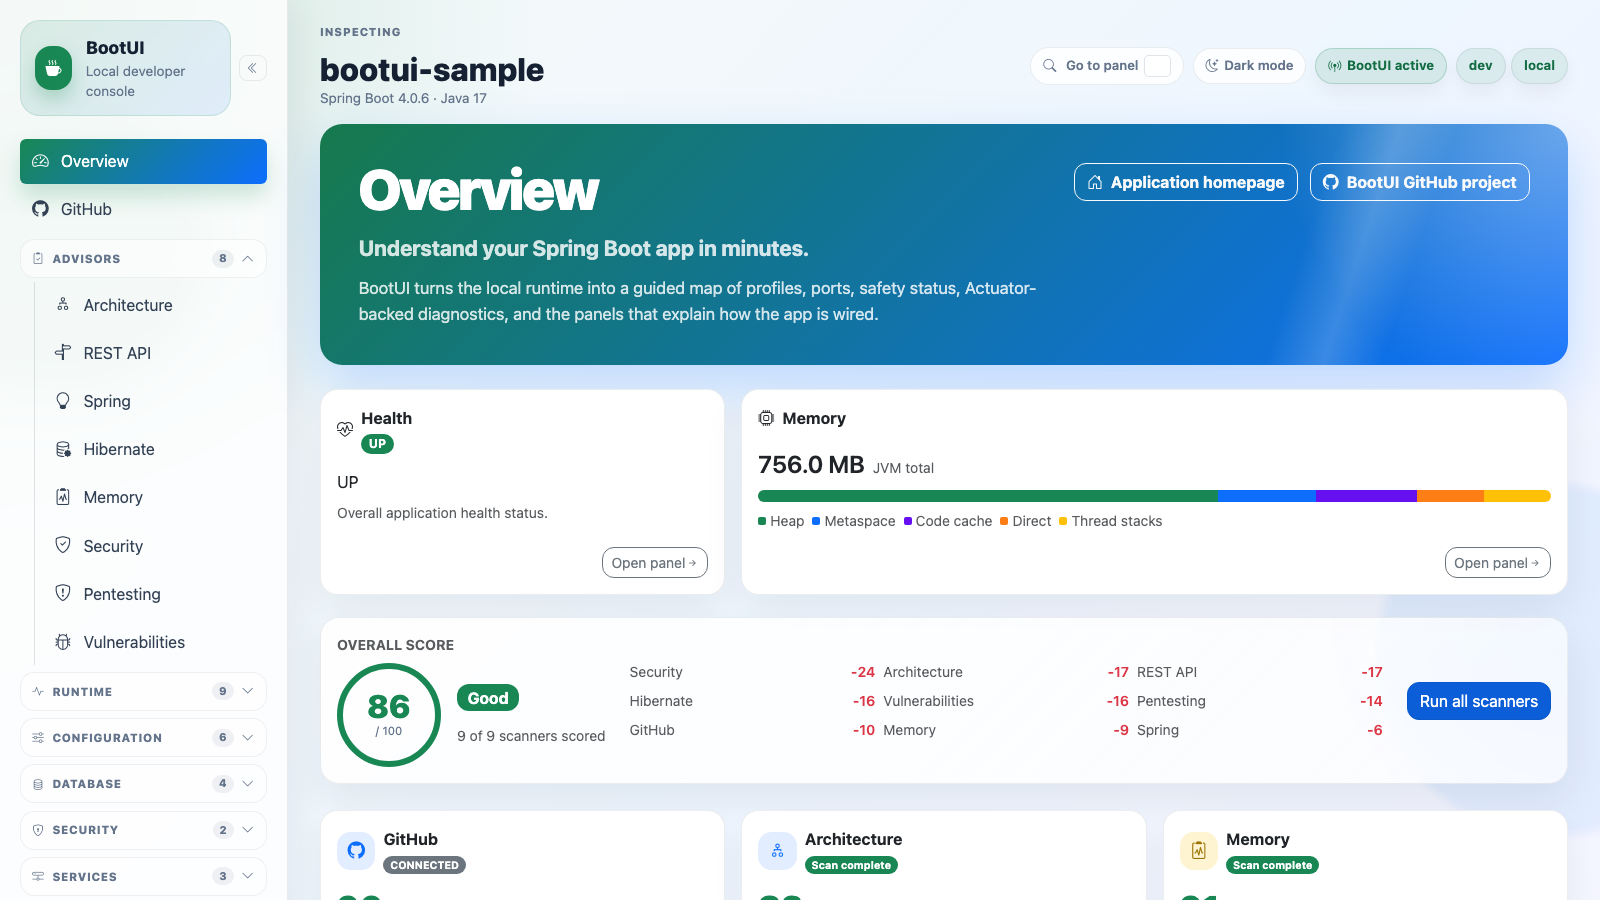
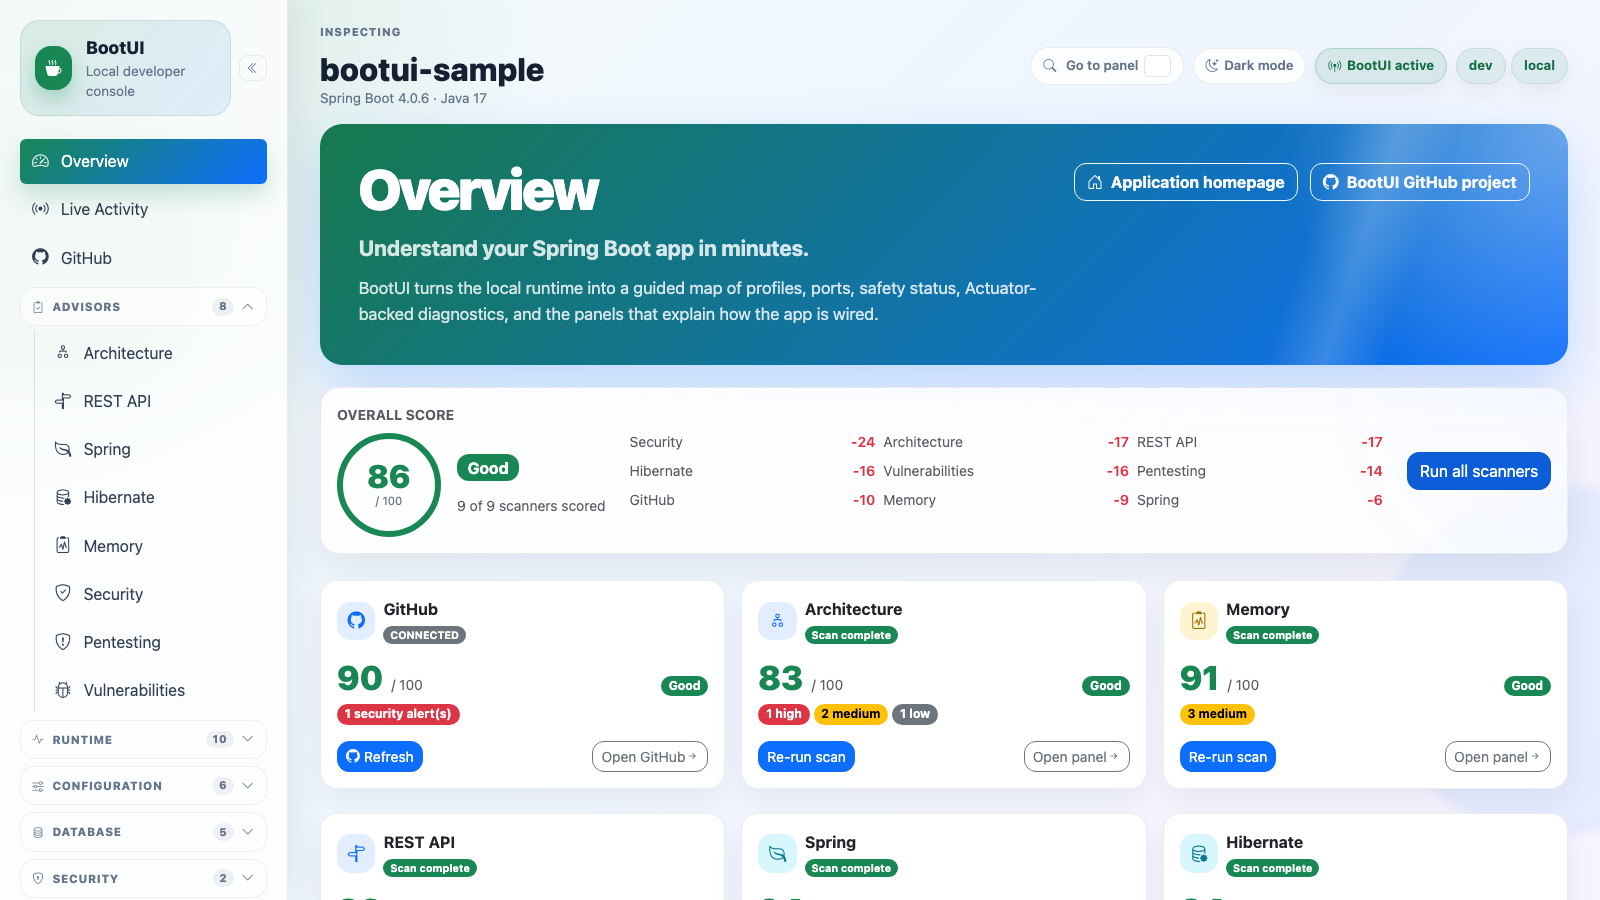
docs: add home screenshot carousel and refresh Overview/JVM Tuning shots
Recapture the Overview screenshot (it no longer shows the removed Health
and Memory live cards) and the JVM Tuning screenshot.

Replace the single Overview image on the VuePress home page with an
auto-advancing ScreenshotCarousel that cycles through Overview, Live
Activity, GitHub, JVM Tuning, Heap Dump, GraalVM, and Copilot. The
component pauses on hover/focus, honors reduced-motion, and offers prev/
next controls plus indicator dots. It is registered globally in the
VuePress client config and positioned in the home layout via CSS.

The carousel classes are namespaced (bootui-carousel-*) so they do not
collide with Bootstrap's global .carousel-indicators/.carousel-caption
rules, which otherwise absolutely positioned the dots at the bottom of
the page under the footer.

diff --git a/docs/.vuepress/components/ScreenshotCarousel.vue b/docs/.vuepress/components/ScreenshotCarousel.vue
@@ -1,0 +1,331 @@
+<script setup>
+import {computed, onBeforeUnmount, onMounted, ref} from 'vue'
+import overviewImage from '../../images/bootui-overview.png'
+import activityImage from '../../images/bootui-activity.png'
+import githubImage from '../../images/bootui-github.png'
+import jvmTuningImage from '../../images/bootui-jvm-tuning.png'
+import heapDumpImage from '../../images/bootui-heap-dump.png'
+import graalvmImage from '../../images/bootui-graalvm.png'
+import copilotImage from '../../images/bootui-copilot.png'
+
+const slides = [
+  {
+    title: 'Overview',
+    src: overviewImage,
+    caption: 'Score your app on demand and jump straight to the advisors that need attention.'
+  },
+  {
+    title: 'Live Activity',
+    src: activityImage,
+    caption: 'Watch requests, queries, and cache activity stream from the running app in real time.'
+  },
+  {
+    title: 'GitHub',
+    src: githubImage,
+    caption: 'Review pull requests, workflow runs, and API quota for the connected repository.'
+  },
+  {
+    title: 'JVM Tuning',
+    src: jvmTuningImage,
+    caption: 'Plan bare-metal JVM options and calculate Kubernetes memory sizing.'
+  },
+  {
+    title: 'Heap Dump',
+    src: heapDumpImage,
+    caption: 'Capture and analyse heap dumps to find what is retaining memory.'
+  },
+  {
+    title: 'GraalVM',
+    src: graalvmImage,
+    caption: 'Check native-image readiness before you compile an ahead-of-time binary.'
+  },
+  {
+    title: 'Copilot',
+    src: copilotImage,
+    caption: 'Explore local GitHub Copilot CLI activity, sessions, and tool usage.'
+  }
+]
+
+const AUTOPLAY_INTERVAL = 6000
+
+const current = ref(0)
+const paused = ref(false)
+let timer = null
+
+const currentSlide = computed(() => slides[current.value])
+
+function goTo(index) {
+  current.value = (index + slides.length) % slides.length
+}
+
+function next() {
+  goTo(current.value + 1)
+}
+
+function previous() {
+  goTo(current.value - 1)
+}
+
+function prefersReducedMotion() {
+  return (
+    typeof window !== 'undefined' &&
+    typeof window.matchMedia === 'function' &&
+    window.matchMedia('(prefers-reduced-motion: reduce)').matches
+  )
+}
+
+function startAutoplay() {
+  stopAutoplay()
+  if (prefersReducedMotion()) {
+    return
+  }
+  timer = window.setInterval(() => {
+    if (!paused.value) {
+      next()
+    }
+  }, AUTOPLAY_INTERVAL)
+}
+
+function stopAutoplay() {
+  if (timer !== null) {
+    window.clearInterval(timer)
+    timer = null
+  }
+}
+
+function pause() {
+  paused.value = true
+}
+
+function resume() {
+  paused.value = false
+}
+
+onMounted(startAutoplay)
+onBeforeUnmount(stopAutoplay)
+</script>
+
+<template>
+  <section
+    class="bootui-home-carousel"
+    aria-roledescription="carousel"
+    aria-label="BootUI panel screenshots"
+    @mouseenter="pause"
+    @mouseleave="resume"
+    @focusin="pause"
+    @focusout="resume"
+  >
+    <div class="bootui-carousel-frame">
+      <div class="bootui-carousel-viewport">
+        <div class="bootui-carousel-track" :style="{transform: `translateX(-${current * 100}%)`}">
+          <div
+            v-for="(slide, index) in slides"
+            :key="slide.title"
+            class="bootui-carousel-slide"
+            role="group"
+            aria-roledescription="slide"
+            :aria-label="`${index + 1} of ${slides.length}: ${slide.title}`"
+            :aria-hidden="index !== current"
+          >
+            <img
+              class="bootui-carousel-img"
+              :src="slide.src"
+              :alt="`BootUI ${slide.title} panel`"
+              loading="lazy"
+              decoding="async"
+            />
+          </div>
+        </div>
+      </div>
+
+      <button
+        type="button"
+        class="bootui-carousel-control bootui-carousel-control--prev"
+        aria-label="Previous panel"
+        @click="previous"
+      >
+        <i class="bi bi-chevron-left" aria-hidden="true"></i>
+      </button>
+      <button
+        type="button"
+        class="bootui-carousel-control bootui-carousel-control--next"
+        aria-label="Next panel"
+        @click="next"
+      >
+        <i class="bi bi-chevron-right" aria-hidden="true"></i>
+      </button>
+
+      <div class="bootui-carousel-caption" aria-live="polite">
+        <span class="bootui-carousel-caption-title">{{ currentSlide.title }}</span>
+        <span class="bootui-carousel-caption-text">{{ currentSlide.caption }}</span>
+      </div>
+    </div>
+
+    <div class="bootui-carousel-indicators" role="group" aria-label="Choose a panel screenshot">
+      <button
+        v-for="(slide, index) in slides"
+        :key="slide.title"
+        type="button"
+        class="bootui-carousel-dot"
+        :class="{'bootui-carousel-dot--active': index === current}"
+        :aria-current="index === current ? 'true' : undefined"
+        :aria-label="`Show ${slide.title}`"
+        @click="goTo(index)"
+      ></button>
+    </div>
+  </section>
+</template>
+
+<style scoped>
+.bootui-home-carousel {
+  width: 100%;
+}
+
+.bootui-carousel-frame {
+  position: relative;
+  overflow: hidden;
+  border: 1px solid var(--bootui-border);
+  border-radius: 1.1rem;
+  box-shadow: var(--bootui-shadow-md);
+  background: var(--bootui-surface);
+}
+
+.bootui-carousel-viewport {
+  overflow: hidden;
+}
+
+.bootui-carousel-track {
+  display: flex;
+  transition: transform 520ms cubic-bezier(0.4, 0, 0.2, 1);
+}
+
+.bootui-carousel-slide {
+  flex: 0 0 100%;
+  min-width: 100%;
+}
+
+.bootui-carousel-img {
+  display: block;
+  width: 100%;
+  height: auto;
+  aspect-ratio: 16 / 9;
+  margin: 0;
+  border: 0;
+  border-radius: 0;
+  box-shadow: none;
+}
+
+.bootui-carousel-control {
+  position: absolute;
+  top: 50%;
+  display: inline-flex;
+  align-items: center;
+  justify-content: center;
+  width: 2.75rem;
+  height: 2.75rem;
+  transform: translateY(-50%);
+  border: 1px solid var(--bootui-border);
+  border-radius: 999px;
+  background: var(--bootui-surface);
+  color: var(--bootui-text);
+  box-shadow: var(--bootui-shadow-sm);
+  font-size: 1.25rem;
+  cursor: pointer;
+  opacity: 0.92;
+  transition:
+    background 160ms ease,
+    color 160ms ease,
+    opacity 160ms ease;
+}
+
+.bootui-carousel-control:hover {
+  opacity: 1;
+  color: #ffffff;
+  background: linear-gradient(135deg, var(--bootui-green), var(--bootui-blue));
+}
+
+.bootui-carousel-control--prev {
+  left: 1rem;
+}
+
+.bootui-carousel-control--next {
+  right: 1rem;
+}
+
+.bootui-carousel-caption {
+  position: absolute;
+  right: 0;
+  bottom: 0;
+  left: 0;
+  display: flex;
+  flex-direction: column;
+  gap: 0.15rem;
+  padding: 2.5rem 1.5rem 1.25rem;
+  color: #ffffff;
+  text-align: left;
+  background: linear-gradient(to top, rgba(8, 22, 16, 0.82), rgba(8, 22, 16, 0));
+}
+
+.bootui-carousel-caption-title {
+  font-size: 1.15rem;
+  font-weight: 800;
+}
+
+.bootui-carousel-caption-text {
+  max-width: 48rem;
+  font-size: 0.95rem;
+  opacity: 0.92;
+}
+
+.bootui-carousel-indicators {
+  display: flex;
+  flex-wrap: wrap;
+  gap: 0.55rem;
+  justify-content: center;
+  margin-top: 1rem;
+}
+
+.bootui-carousel-dot {
+  width: 0.7rem;
+  height: 0.7rem;
+  padding: 0;
+  border: 1px solid var(--bootui-border-alt);
+  border-radius: 999px;
+  background: var(--bootui-surface-alt);
+  cursor: pointer;
+  transition:
+    background 160ms ease,
+    transform 160ms ease;
+}
+
+.bootui-carousel-dot:hover {
+  transform: scale(1.15);
+}
+
+.bootui-carousel-dot--active {
+  border-color: transparent;
+  background: linear-gradient(135deg, var(--bootui-green), var(--bootui-blue));
+}
+
+@media (max-width: 48rem) {
+  .bootui-carousel-caption {
+    padding: 2rem 1rem 1rem;
+  }
+
+  .bootui-carousel-caption-text {
+    display: none;
+  }
+
+  .bootui-carousel-control {
+    width: 2.25rem;
+    height: 2.25rem;
+    font-size: 1rem;
+  }
+}
+
+@media (prefers-reduced-motion: reduce) {
+  .bootui-carousel-track {
+    transition: none;
+  }
+}
+</style>

diff --git a/docs/.vuepress/styles/index.css b/docs/.vuepress/styles/index.css
@@ -593,19 +593,13 @@ body {
   display: contents;
 }
 
-.vp-home > [vp-content] > div > p:first-child {
+.vp-home > [vp-content] > div > .bootui-home-carousel {
   order: 3;
   width: 100%;
   margin: 2rem 0 0;
 }
 
-.vp-home > [vp-content] > div > p:first-child img[src*='bootui-overview'] {
-  width: 100%;
-  margin: 0;
-  box-shadow: var(--bootui-shadow-md);
-}
-
-.vp-home > [vp-content] > div > :not(p:first-child) {
+.vp-home > [vp-content] > div > :not(.bootui-home-carousel) {
   order: 4;
 }
 

diff --git a/docs/.vuepress/client.js b/docs/.vuepress/client.js
@@ -3,8 +3,12 @@ import {defineClientConfig, onContentUpdated, useRoute} from 'vuepress/client'
 import 'bootstrap/dist/css/bootstrap.min.css'
 import 'bootstrap-icons/font/bootstrap-icons.css'
 import './styles/index.css'
+import ScreenshotCarousel from './components/ScreenshotCarousel.vue'
 
 export default defineClientConfig({
+  enhance({app}) {
+    app.component('ScreenshotCarousel', ScreenshotCarousel)
+  },
   setup() {
     const route = useRoute()
     let scheduleSidebarSync = () => {}

diff --git a/docs/README.md b/docs/README.md
@@ -25,7 +25,7 @@ features:
 footer: Apache-2.0 Licensed | BootUI
 ---
 
-![BootUI overview](./images/bootui-overview.png)
+<ScreenshotCarousel />
 
 ## Start here
 